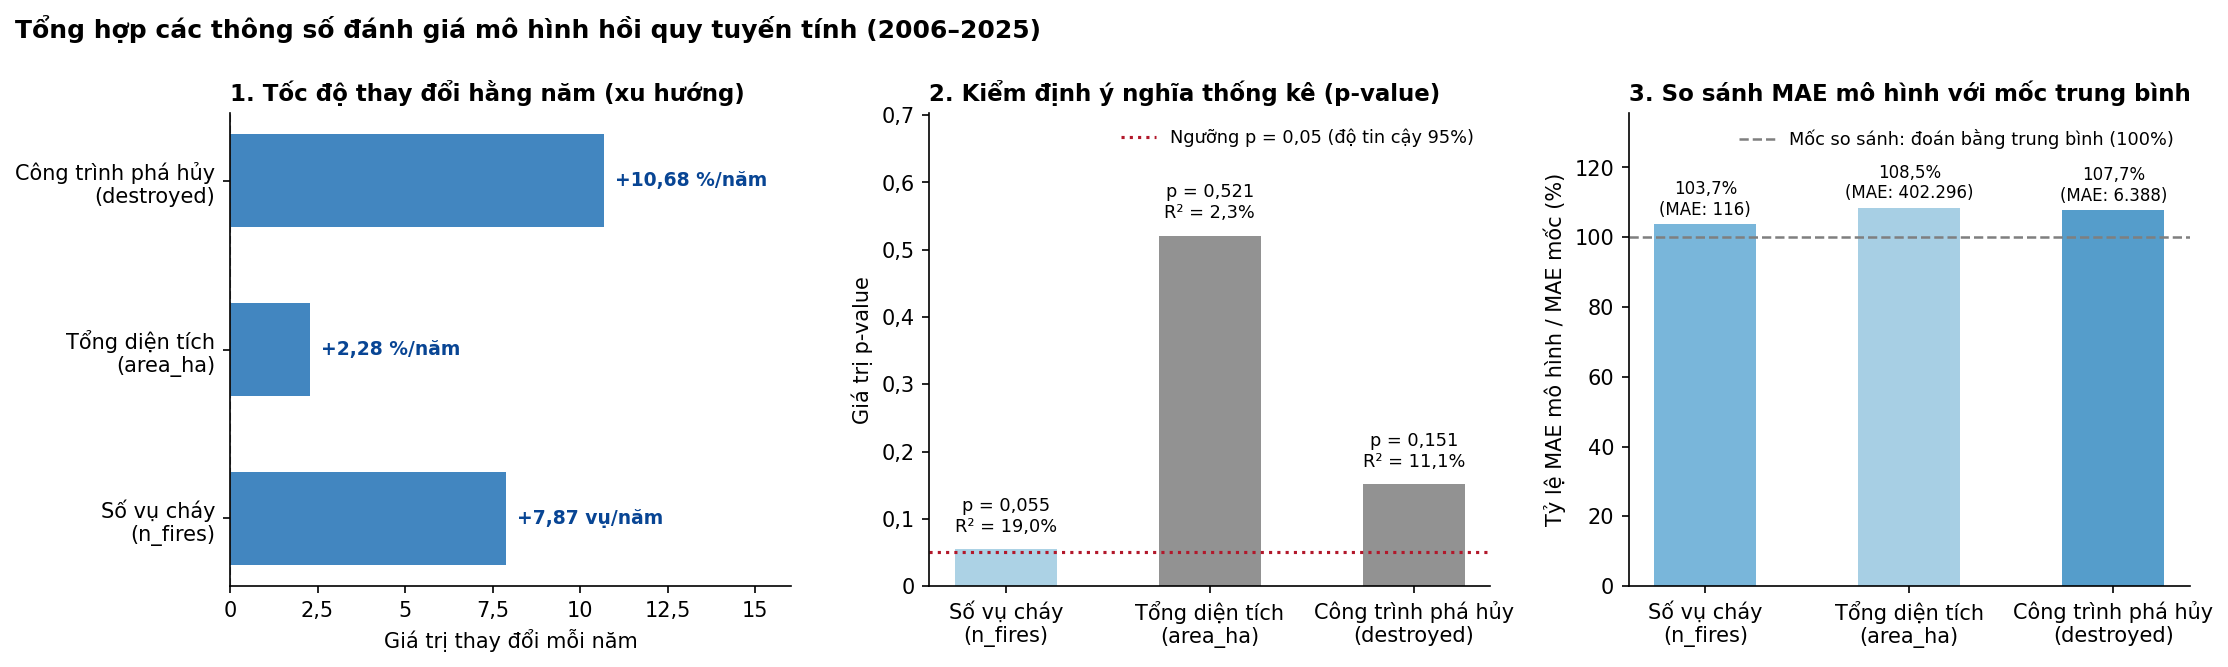
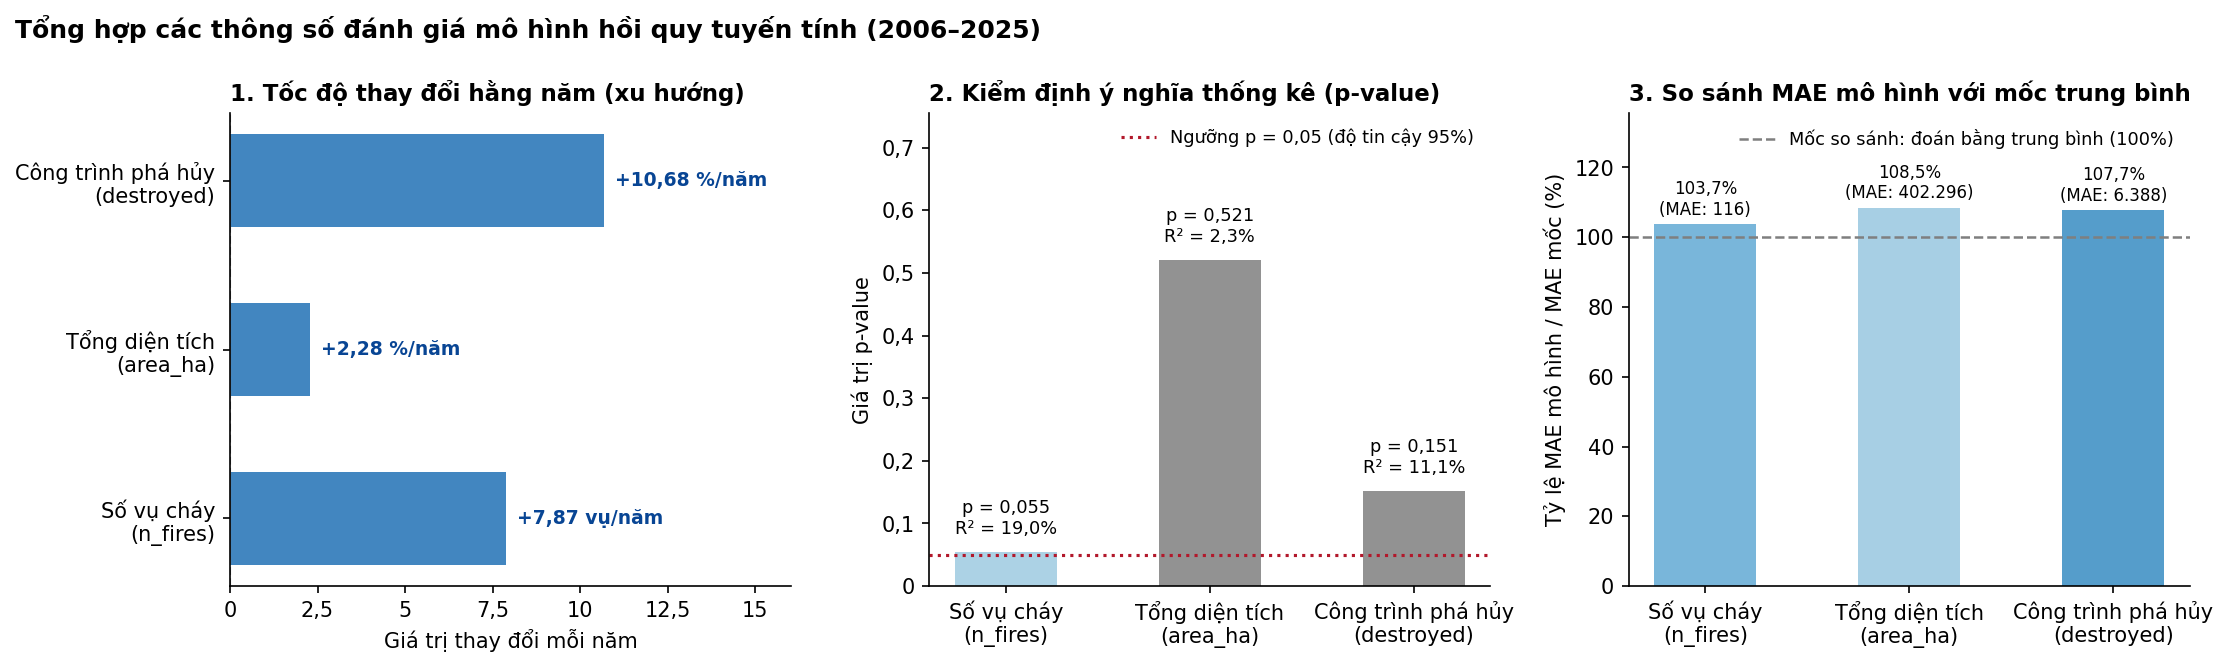
feat(model): forecast yearly fire counts by cause (Human, Natural, Undetermined, Vehicle)
- build_yearly_by_cause() + run_cause_forecasts(): same linear trend,
  rolling-origin evaluation and 95% prediction interval as the existing
  model; Natural is fitted on log1p (linear scale drives 2035 to ~1 fire).
- Shared _run_targets() for both models; plot_forecasts / plot_model_metrics
  take targets and title, handle negative trends and p-values below 0.05.
- Outputs: data/clean/forecast_by_cause.csv, forecast_by_cause_metrics.csv,
  reports/figures/model_03_forecast_by_cause.png, model_04_cause_metrics.png.
  forecast_results.csv / forecast_metrics.csv are unchanged.
- Remove section banner comments.

Changed region(s): [[0.4026, 0.7496, 0.6504, 0.8396], [0.4955, 0.2699, 0.5884, 0.3898], [0.6194, 0.6297, 0.6504, 0.7496]]

diff --git a/src/08_predictive_model.py b/src/08_predictive_model.py
@@ -11,12 +11,17 @@ Mục đích:
       không chia ngẫu nhiên vì dữ liệu là chuỗi thời gian (xáo trộn = học từ tương lai, sai số bị đánh giá thấp).
     - Chỉ số sai số: R², MAE, RMSE; so sánh với mô hình "đoán bằng trung bình quá khứ".
     - Khoảng dự báo 95% (prediction interval) của hồi quy tuyến tính đơn.
+    - Cùng phương pháp, dự báo số vụ cháy mỗi năm theo nguyên nhân: 3 nhóm `cause_group`
+      (Human, Natural, Undetermined) và riêng nguyên nhân Vehicle (thuộc nhóm Human).
+      Natural huấn luyện trên log1p (thang gốc kéo dự báo 2035 về ~1 vụ), các chuỗi còn lại trên thang gốc.
 
 Đầu ra:
     - `data/clean/forecast_results.csv`  : year, metric, actual, predicted, lower_95, upper_95, is_forecast (bàn giao TV2/TV3).
     - `data/clean/forecast_metrics.csv`  : sai số rolling origin + độ dốc xu hướng của từng chỉ số.
+    - `data/clean/forecast_by_cause.csv` / `forecast_by_cause_metrics.csv` : như trên, cho từng nguyên nhân.
     - `reports/figures/model_01_forecast.png` : điểm thực tế, đường xu hướng, dự báo + khoảng dự báo 95%.
     - `reports/figures/model_02_metrics.png`  : độ dốc xu hướng, p-value / R², MAE so với mốc trung bình.
+    - `reports/figures/model_03_forecast_by_cause.png` / `model_04_cause_metrics.png` : như trên, theo nguyên nhân.
 
 Cách chạy (từ thư mục gốc dự án, sau src/03_clean.py):
     python src/08_predictive_model.py
@@ -46,6 +51,10 @@ FORECAST_PATH = Path("data/clean/forecast_results.csv")
 METRICS_PATH = Path("data/clean/forecast_metrics.csv")
 FIGURE_PATH = Path("reports/figures/model_01_forecast.png")
 METRICS_FIGURE_PATH = Path("reports/figures/model_02_metrics.png")
+CAUSE_FORECAST_PATH = Path("data/clean/forecast_by_cause.csv")
+CAUSE_METRICS_PATH = Path("data/clean/forecast_by_cause_metrics.csv")
+CAUSE_FIGURE_PATH = Path("reports/figures/model_03_forecast_by_cause.png")
+CAUSE_METRICS_FIGURE_PATH = Path("reports/figures/model_04_cause_metrics.png")
 
 FIRST_TEST_YEAR = 2016                # rolling origin: du bao lan luot 2016..2025 (10 lan)
 FORECAST_YEARS = range(2026, 2036)    # 10 nam tuong lai
@@ -58,11 +67,20 @@ FORECAST_TARGETS = [
     ("area_ha", True, "Tổng diện tích cháy (ha)"),
     ("destroyed", True, "Công trình bị phá hủy"),
 ]
+# So vu chay moi nam theo nguyen nhan. Chi lay nhom lon + Vehicle: Arson / Powerline / Miscellaneous
+# chi 17-38 vu/nam, sai so rolling origin con kem hon moc trung binh
+CAUSE_TARGETS = [
+    ("human", False, "Con người\n(Human)"),
+    ("natural", True, "Tự nhiên – sét\n(Natural)"),
+    ("undetermined", False, "Không rõ\n(Undetermined)"),
+    ("vehicle", False, "Xe cộ\n(Vehicle)"),
+]
 # Nhan 2 dong cho truc cua bieu do thong so mo hinh
 METRIC_AXIS_LABELS = {
     "n_fires": "Số vụ cháy\n(n_fires)",
     "area_ha": "Tổng diện tích\n(area_ha)",
     "destroyed": "Công trình phá hủy\n(destroyed)",
+    **{target: label for target, _, label in CAUSE_TARGETS},
 }
 # Don vi trend_unit trong forecast_metrics.csv -> nhan hien thi tren bieu do
 TREND_UNIT_LABELS = {"%/nam": "%/năm", "don vi/nam": "vụ/năm"}
@@ -74,12 +92,8 @@ COLOR_FORECAST = "#2171B5"
 COLOR_BAND = "#9ECAE1"
 COLOR_LABEL = "#084594"
 COLOR_THRESHOLD = "#B2182B"
-MAE_BAR_COLORS = ["#6BAED6", "#9ECAE1", "#4292C6"]
+MAE_BAR_COLORS = ["#6BAED6", "#9ECAE1", "#4292C6", "#2171B5"]
 
-
-# ---------------------------------------------------------------------------
-# Du lieu & mo hinh
-# ---------------------------------------------------------------------------
 
 def load_data(path: Path = INPUT_PATH) -> pd.DataFrame:
     """Doc bang vu chay da lam sach (giu county_fips dang chuoi de khong mat so 0 dau)."""
@@ -97,6 +111,15 @@ def build_yearly(df: pd.DataFrame) -> pd.DataFrame:
         )
         .reset_index()
     )
+
+
+def build_yearly_by_cause(df: pd.DataFrame) -> pd.DataFrame:
+    """Gom theo nam: so vu chay cua tung nhom nguyen nhan + rieng Vehicle (nam khong co vu nao = 0)."""
+    years = pd.Index(sorted(df["year"].unique()), name="year")
+    by_group = pd.crosstab(df["year"], df["cause_group"]).reindex(years, fill_value=0)
+    by_group.columns = by_group.columns.str.lower()
+    vehicle = df[df["cause_name"] == "Vehicle"].groupby("year").size().reindex(years, fill_value=0)
+    return by_group.assign(vehicle=vehicle).reset_index()[["year", *[t for t, _, _ in CAUSE_TARGETS]]]
 
 
 def _fit(train: pd.DataFrame, target: str, use_log: bool) -> LinearRegression:
@@ -179,22 +202,20 @@ def forecast_trend(yearly: pd.DataFrame, target: str, use_log: bool) -> pd.DataF
     return result[["year", "metric", "actual", "predicted", "lower_95", "upper_95", "is_forecast"]]
 
 
-# ---------------------------------------------------------------------------
-# Bieu do
-# ---------------------------------------------------------------------------
-
 def _save_figure(fig: plt.Figure, output_path: Path, label: str) -> None:
     output_path.parent.mkdir(parents=True, exist_ok=True)
     fig.savefig(output_path, dpi=150, bbox_inches="tight")
     print(f"[TV1 - MODEL] Da luu {label} -> {output_path}")
 
 
-def plot_forecasts(forecast: pd.DataFrame, output_path: Path = FIGURE_PATH) -> plt.Figure:
-    """3 bieu do: diem thuc te, duong xu huong / du bao, vung khoang du bao 95%."""
-    fig, axes = plt.subplots(len(FORECAST_TARGETS), 1, figsize=(12, 11), sharex=True)
+def plot_forecasts(forecast: pd.DataFrame, output_path: Path = FIGURE_PATH, targets: list = FORECAST_TARGETS,
+                   title: str = "Dự báo hồi quy tuyến tính") -> plt.Figure:
+    """Moi chi so 1 bieu do: diem thuc te, duong xu huong / du bao, vung khoang du bao 95%."""
+    fig, axes = plt.subplots(len(targets), 1, figsize=(12, 3.7 * len(targets)), sharex=True)
     last_year = forecast.loc[~forecast["is_forecast"], "year"].max()
 
-    for ax, (target, use_log, label) in zip(axes, FORECAST_TARGETS):
+    for ax, (target, use_log, label) in zip(axes, targets):
+        label = label.replace("\n", " ")
         data = forecast[forecast["metric"] == target]
         hist, future = data[~data["is_forecast"]], data[data["is_forecast"]]
 
@@ -221,9 +242,9 @@ def plot_forecasts(forecast: pd.DataFrame, output_path: Path = FIGURE_PATH) -> p
 
     axes[0].legend(frameon=False, loc="upper left", fontsize=8, ncol=4)
     axes[-1].set_xticks(range(int(forecast["year"].min()), int(forecast["year"].max()) + 1, 2))
-    fig.suptitle(f"Dự báo hồi quy tuyến tính {min(FORECAST_YEARS)}–{max(FORECAST_YEARS)} "
+    fig.suptitle(f"{title} {min(FORECAST_YEARS)}–{max(FORECAST_YEARS)} "
                  f"(vùng xanh = khoảng dự báo {CONFIDENCE:.0%})", fontsize=13, x=0.01, ha="left")
-    fig.tight_layout()
+    fig.tight_layout(rect=(0, 0, 1, 0.98))  # chua cho tieu de, khong de len chu giai
     _save_figure(fig, output_path, "bieu do du bao")
     return fig
 
@@ -237,17 +258,20 @@ def _plot_trend_panel(ax: plt.Axes, metrics: pd.DataFrame, labels: list[str]) ->
     """Khung 1: do doc xu huong moi nam (thang log: %/nam, thang goc: vu/nam)."""
     bars = ax.barh(labels, metrics["trend_per_year"], color=COLOR_FORECAST, alpha=0.85, height=0.55)
     ax.axvline(0, color=COLOR_FIT, linestyle="--", linewidth=1)
-    max_trend = float(metrics["trend_per_year"].max())
+    # Xu huong co the am (vd cháy do sét giam) -> truc mo ra ca 2 phia cua 0
+    max_trend = max(float(metrics["trend_per_year"].max()), 0)
+    min_trend = min(float(metrics["trend_per_year"].min()), 0)
+    pad = (max_trend - min_trend) * 0.03
     for bar, (_, row) in zip(bars, metrics.iterrows()):
         value = row["trend_per_year"]
         unit = TREND_UNIT_LABELS.get(row["trend_unit"], row["trend_unit"])
         sign = "+" if value >= 0 else "-"
-        ax.text(value + (max_trend * 0.03), bar.get_y() + bar.get_height() / 2,
+        ax.text(value + (pad if value >= 0 else -pad), bar.get_y() + bar.get_height() / 2,
                 f"{sign}{eda.vn_number(abs(value), 2)} {unit}",
-                va="center", ha="left", fontsize=9, fontweight="bold", color=COLOR_LABEL)
+                va="center", ha="left" if value >= 0 else "right", fontsize=9, fontweight="bold", color=COLOR_LABEL)
     _style_metric_panel(ax, "1. Tốc độ thay đổi hằng năm (xu hướng)")
     ax.set_xlabel("Giá trị thay đổi mỗi năm")
-    ax.set_xlim(0, max_trend * 1.5)
+    ax.set_xlim(min_trend * 2.2, max_trend * 1.5)
     ax.xaxis.set_major_formatter(eda.VN_TICK_FORMATTER)
 
 
@@ -257,13 +281,16 @@ def _plot_pvalue_panel(ax: plt.Axes, metrics: pd.DataFrame, labels: list[str]) -
     bars = ax.bar(labels, metrics["p_value"], color=colors, alpha=0.85, width=0.5)
     ax.axhline(SIGNIFICANCE, color=COLOR_THRESHOLD, linestyle=":", linewidth=1.5,
                label=f"Ngưỡng p = {eda.vn_number(SIGNIFICANCE, 2)} (độ tin cậy 95%)")
+    # Truc luon chua duong nguong (moi p < 0,05 thi truc van phai cao hon 0,05)
+    y_top = max(float(metrics["p_value"].max()), SIGNIFICANCE) * 1.45
     for bar, (_, row) in zip(bars, metrics.iterrows()):
-        ax.text(bar.get_x() + bar.get_width() / 2, bar.get_height() + 0.02,
-                f"p = {eda.vn_number(row['p_value'], 3)}\nR² = {eda.vn_number(row['r2_fit_all_years'] * 100, 1)}%",
+        p_text = "p < 0,001" if row["p_value"] < 0.001 else f"p = {eda.vn_number(row['p_value'], 3)}"
+        ax.text(bar.get_x() + bar.get_width() / 2, bar.get_height() + y_top * 0.03,
+                f"{p_text}\nR² = {eda.vn_number(row['r2_fit_all_years'] * 100, 1)}%",
                 ha="center", va="bottom", fontsize=8.5)
     _style_metric_panel(ax, "2. Kiểm định ý nghĩa thống kê (p-value)")
     ax.set_ylabel("Giá trị p-value")
-    ax.set_ylim(0, float(metrics["p_value"].max()) * 1.35)
+    ax.set_ylim(0, y_top)
     ax.yaxis.set_major_formatter(eda.VN_TICK_FORMATTER)
     ax.legend(frameon=False, loc="upper right", fontsize=8.5)
 
@@ -284,48 +311,42 @@ def _plot_mae_panel(ax: plt.Axes, metrics: pd.DataFrame, labels: list[str]) -> N
     ax.legend(frameon=False, loc="upper right", fontsize=8.5)
 
 
-def plot_model_metrics(metrics: pd.DataFrame, output_path: Path = METRICS_FIGURE_PATH) -> plt.Figure:
+def plot_model_metrics(metrics: pd.DataFrame, output_path: Path = METRICS_FIGURE_PATH,
+                       title: str = "Tổng hợp các thông số đánh giá mô hình hồi quy tuyến tính (2006–2025)") -> plt.Figure:
     """Truc quan hoa cac thong so danh gia mo hinh: do doc xu huong, p-value / R2 va so sanh sai so MAE."""
-    fig, (ax_trend, ax_pvalue, ax_mae) = plt.subplots(1, 3, figsize=(15, 4.5))
+    fig, (ax_trend, ax_pvalue, ax_mae) = plt.subplots(1, 3, figsize=(5 * len(metrics), 4.5))
     labels = [METRIC_AXIS_LABELS.get(m, m) for m in metrics["metric"]]
 
     _plot_trend_panel(ax_trend, metrics, labels)
     _plot_pvalue_panel(ax_pvalue, metrics, labels)
     _plot_mae_panel(ax_mae, metrics, labels)
 
-    fig.suptitle("Tổng hợp các thông số đánh giá mô hình hồi quy tuyến tính (2006–2025)",
-                 fontsize=12, fontweight="bold", x=0.01, ha="left")
+    fig.suptitle(title, fontsize=12, fontweight="bold", x=0.01, ha="left")
     fig.tight_layout()
     _save_figure(fig, output_path, "bieu do thong so mo hinh")
     return fig
 
 
-# ---------------------------------------------------------------------------
-# Dieu phoi
-# ---------------------------------------------------------------------------
-
-def run_predictive_models() -> pd.DataFrame:
-    """Danh gia (rolling origin), du bao 10 nam va xuat ket qua cho TV2 / TV3."""
-    yearly = build_yearly(load_data())
-    print(f"[TV1 - MODEL] Du lieu theo nam: {yearly['year'].min()}-{yearly['year'].max()} ({len(yearly)} nam)")
-
+def _run_targets(yearly: pd.DataFrame, targets: list, forecast_path: Path, metrics_path: Path):
+    """Danh gia (rolling origin), du bao 10 nam cho tung chi so trong targets, xuat 2 file CSV va in tom tat."""
     forecasts, metrics = [], []
-    for target, use_log, _ in FORECAST_TARGETS:
+    for target, use_log, _ in targets:
         metrics.append({**describe_trend(yearly, target, use_log), **evaluate_trend(yearly, target, use_log)})
         forecasts.append(forecast_trend(yearly, target, use_log))
 
     forecast = pd.concat(forecasts, ignore_index=True)
     metrics = pd.DataFrame(metrics)
 
-    expected_rows = len(FORECAST_TARGETS) * (len(yearly) + len(FORECAST_YEARS))
+    expected_rows = len(targets) * (len(yearly) + len(FORECAST_YEARS))
     assert len(forecast) == expected_rows, f"forecast co {len(forecast)} dong, ky vong {expected_rows}"
     assert (forecast["lower_95"] <= forecast["predicted"]).all() and (forecast["predicted"] <= forecast["upper_95"]).all()
+    assert (forecast["predicted"] >= 0).all(), "du bao am"
 
-    FORECAST_PATH.parent.mkdir(parents=True, exist_ok=True)
-    forecast.to_csv(FORECAST_PATH, index=False, encoding="utf-8")
-    metrics.to_csv(METRICS_PATH, index=False, encoding="utf-8")
-    print(f"[TV1 - MODEL] Da xuat {len(forecast)} dong du bao -> {FORECAST_PATH}")
-    print(f"[TV1 - MODEL] Da xuat sai so -> {METRICS_PATH}")
+    forecast_path.parent.mkdir(parents=True, exist_ok=True)
+    forecast.to_csv(forecast_path, index=False, encoding="utf-8")
+    metrics.to_csv(metrics_path, index=False, encoding="utf-8")
+    print(f"[TV1 - MODEL] Da xuat {len(forecast)} dong du bao -> {forecast_path}")
+    print(f"[TV1 - MODEL] Da xuat sai so -> {metrics_path}")
 
     print(f"\n[TV1 - MODEL] Danh gia rolling origin ({FIRST_TEST_YEAR}-{yearly['year'].max()}, du bao 1 nam toi):")
     print(metrics[["metric", "trend_per_year", "trend_unit", "p_value", "r2", "mae", "rmse", "mae_naive_mean"]]
@@ -334,11 +355,33 @@ def run_predictive_models() -> pd.DataFrame:
     print(f"\n[TV1 - MODEL] Du bao {min(FORECAST_YEARS)} va {max(FORECAST_YEARS)}:")
     edge = forecast[forecast["year"].isin([min(FORECAST_YEARS), max(FORECAST_YEARS)])]
     print(edge.drop(columns=["actual", "is_forecast"]).to_string(index=False, float_format=lambda v: f"{v:,.0f}"))
+    return forecast, metrics
 
+
+def run_predictive_models() -> pd.DataFrame:
+    """Du bao 3 chi so tong (so vu, dien tich, cong trinh) va xuat ket qua cho TV2 / TV3."""
+    yearly = build_yearly(load_data())
+    print(f"[TV1 - MODEL] Du lieu theo nam: {yearly['year'].min()}-{yearly['year'].max()} ({len(yearly)} nam)")
+    forecast, metrics = _run_targets(yearly, FORECAST_TARGETS, FORECAST_PATH, METRICS_PATH)
     plt.close(plot_forecasts(forecast))
     plt.close(plot_model_metrics(metrics))
     return forecast
 
 
+def run_cause_forecasts() -> pd.DataFrame:
+    """Du bao so vu chay moi nam theo nguyen nhan (Human, Natural, Undetermined, Vehicle)."""
+    df = load_data()
+    yearly = build_yearly_by_cause(df)
+    # Moi vu chay thuoc dung 1 nhom -> tong 3 nhom phai bang tong so vu
+    assert yearly[["human", "natural", "undetermined"]].sum(axis=1).eq(df.groupby("year").size().to_numpy()).all()
+    print(f"\n[TV1 - MODEL] So vu chay theo nguyen nhan: {yearly['year'].min()}-{yearly['year'].max()}")
+    forecast, metrics = _run_targets(yearly, CAUSE_TARGETS, CAUSE_FORECAST_PATH, CAUSE_METRICS_PATH)
+    plt.close(plot_forecasts(forecast, CAUSE_FIGURE_PATH, CAUSE_TARGETS, "Dự báo số vụ cháy theo nguyên nhân"))
+    plt.close(plot_model_metrics(metrics, CAUSE_METRICS_FIGURE_PATH,
+                                 "Thông số đánh giá mô hình dự báo số vụ cháy theo nguyên nhân (2006–2025)"))
+    return forecast
+
+
 if __name__ == "__main__":
     run_predictive_models()
+    run_cause_forecasts()
